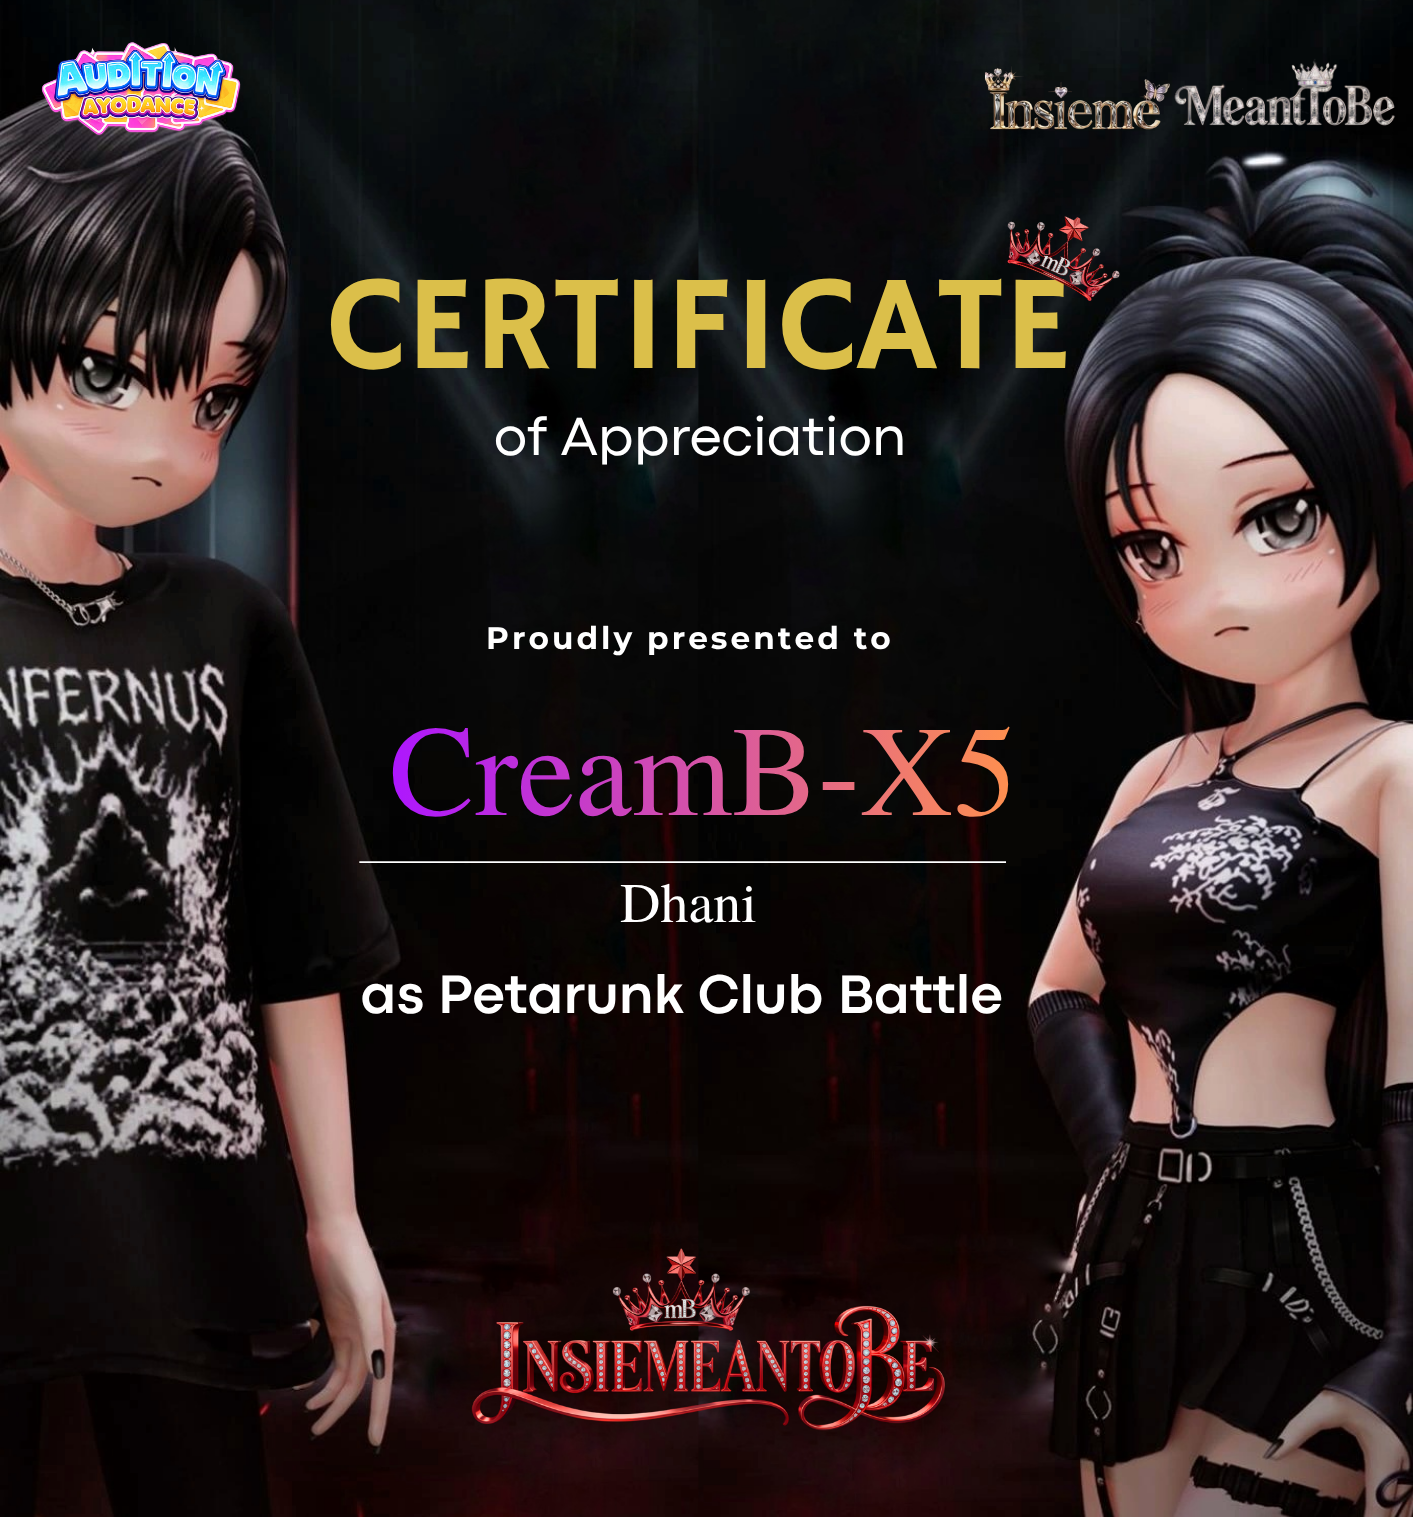
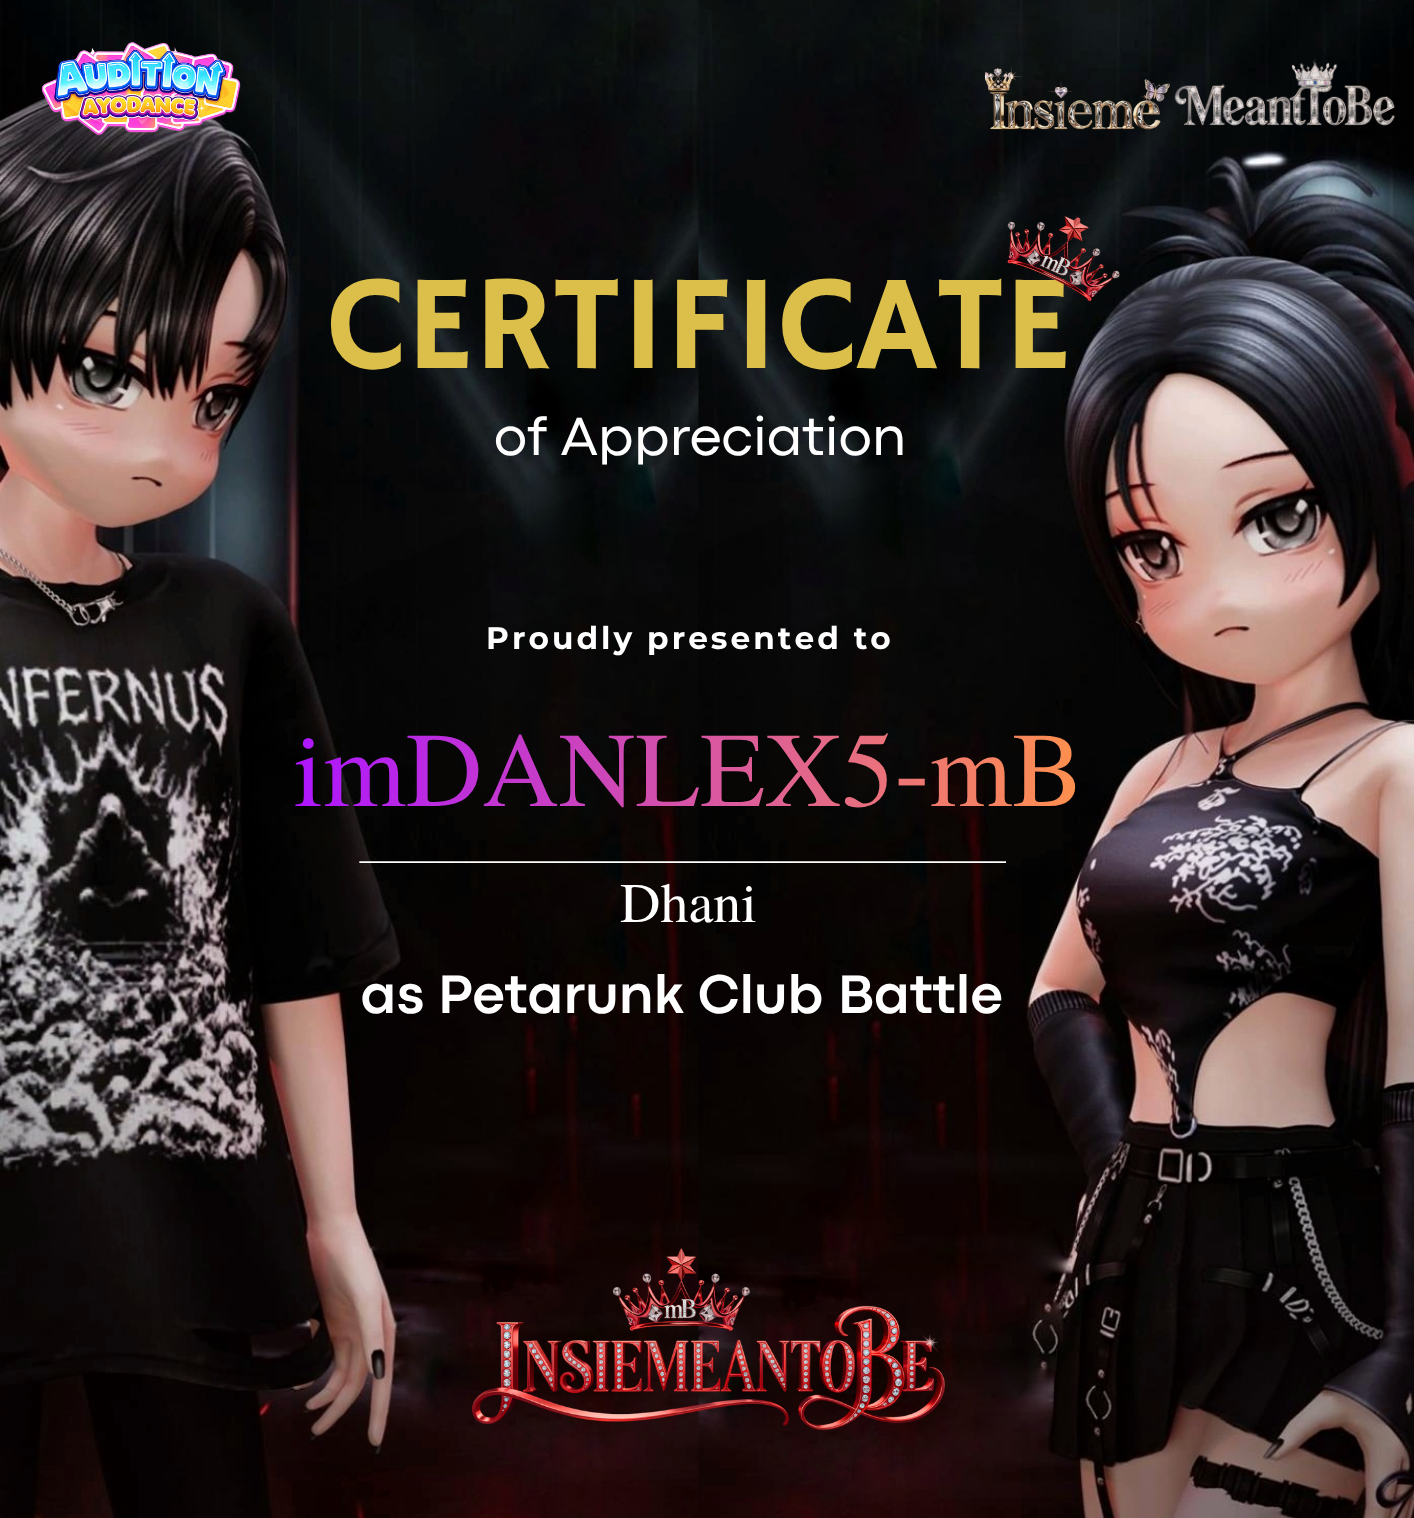
feat: add mB Petarunk photos 8 & 9, fix certificate grid layout
Center Vevei Event solo and pair mB Petarunk with COTM Selfie in the grid.

diff --git a/app/certificate/page.tsx b/app/certificate/page.tsx
@@ -49,17 +49,15 @@ const albums = [
     ],
   },
   {
-    title: "COTM Selfie",
-    portrait: true,
-    cover: "/certificate/COTM-Selfie (0).jpg",
+    title: "Vevei Event",
+    portrait: false,
+    cover: "/certificate/veveiEvent 1.jpg",
     photos: [
-      "/certificate/COTM-Selfie (0).jpg",
-      "/certificate/COTM-Selfie (00).jpg",
-      "/certificate/COTM-Selfie (1).png",
-      "/certificate/COTM-Selfie (2).png",
-      "/certificate/COTM-Selfie (3).png",
-      "/certificate/COTM-Selfie (4).png",
-      "/certificate/COTM-Selfie (5).png",
+      "/certificate/veveiEvent 1.jpg",
+      "/certificate/veveiEvent 2.jpg",
+      "/certificate/veveiEvent 3.jpg",
+      "/certificate/veveiEvent 4.jpg",
+      "/certificate/veveiEvent 5.jpg",
     ],
   },
   {
@@ -77,6 +75,20 @@ const albums = [
       "/certificate/mB Petarunk (7).png",
       "/certificate/mB Petarunk (8).png",
       "/certificate/mB Petarunk (9).png",
+    ],
+  },
+  {
+    title: "COTM Selfie",
+    portrait: true,
+    cover: "/certificate/COTM-Selfie (0).jpg",
+    photos: [
+      "/certificate/COTM-Selfie (0).jpg",
+      "/certificate/COTM-Selfie (00).jpg",
+      "/certificate/COTM-Selfie (1).png",
+      "/certificate/COTM-Selfie (2).png",
+      "/certificate/COTM-Selfie (3).png",
+      "/certificate/COTM-Selfie (4).png",
+      "/certificate/COTM-Selfie (5).png",
     ],
   },
 ];
@@ -212,7 +224,7 @@ export default function CertificatePage() {
 
         <div className="grid grid-cols-2 gap-4 sm:gap-6 md:gap-8 max-w-2xl md:max-w-4xl mx-auto">
           {albums.map((album) => (
-            <div key={album.title}>
+            <div key={album.title} className={album.title === "Vevei Event" ? "col-span-2 max-w-[50%] mx-auto w-full" : ""}>
               <AlbumCover album={album} onClick={() => setOpenAlbum(album)} />
             </div>
           ))}
